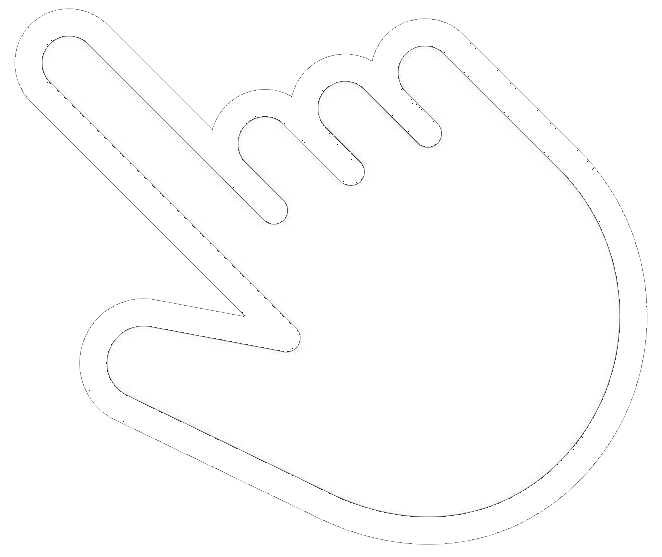
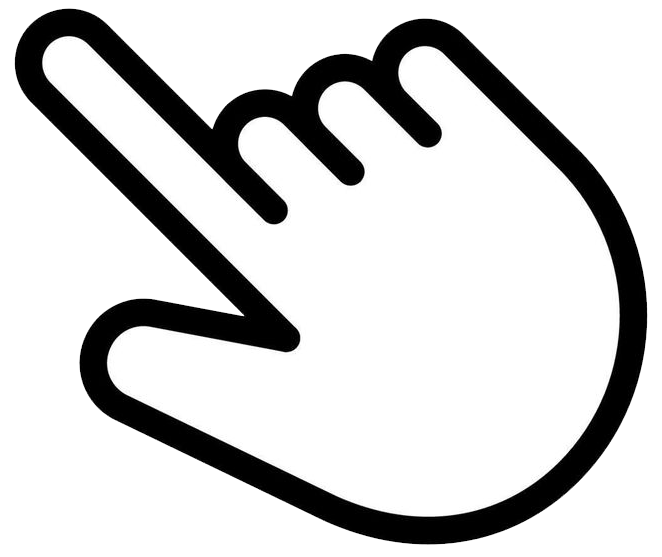
Fix web cursor: correct outlined hand, keep black stroke, PNG source.

Changed region(s): [[0.0, 0.0, 0.997, 0.9767]]

diff --git a/index.html b/index.html
@@ -1665,9 +1665,9 @@ html:not(.is-bare) body {
   padding: 0;
   pointer-events: none;
   z-index: 100001;
-  transform: translate(-42%, -38%);
-  transform-origin: 72% 88%;
-  filter: drop-shadow(0 4px 10px rgba(0, 0, 0, 0.45));
+  transform: translate(-28%, -10%);
+  transform-origin: 28% 10%;
+  filter: drop-shadow(0 3px 8px rgba(0, 0, 0, 0.35));
   user-select: none;
   -webkit-user-drag: none;
   visibility: hidden;
@@ -1692,7 +1692,7 @@ html:not(.is-bare) .web-tap-hand.is-pressed {
   <img
     class="web-tap-hand"
     id="web-tap-hand"
-    src="assets/web-cursor-hand.webp"
+    src="assets/web-cursor-hand.png"
     alt=""
     draggable="false"
     aria-hidden="true"
